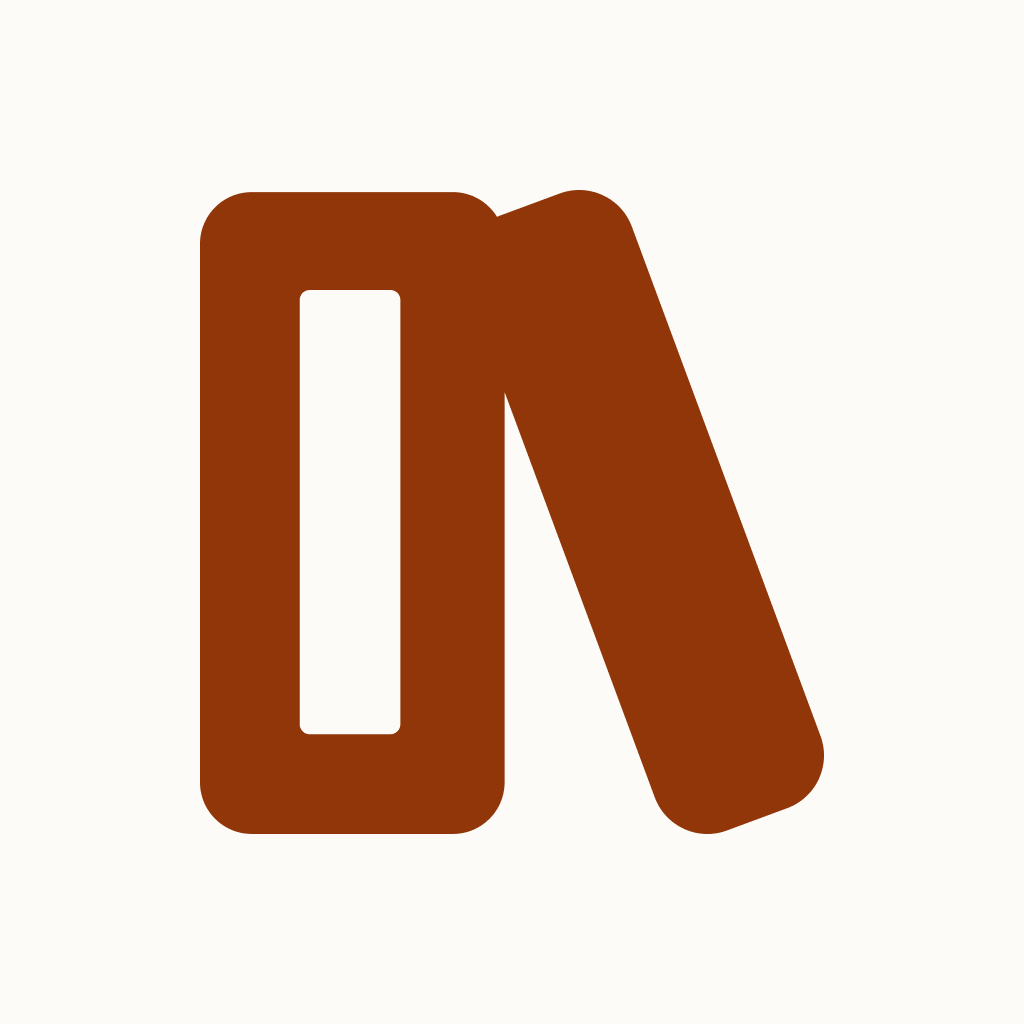
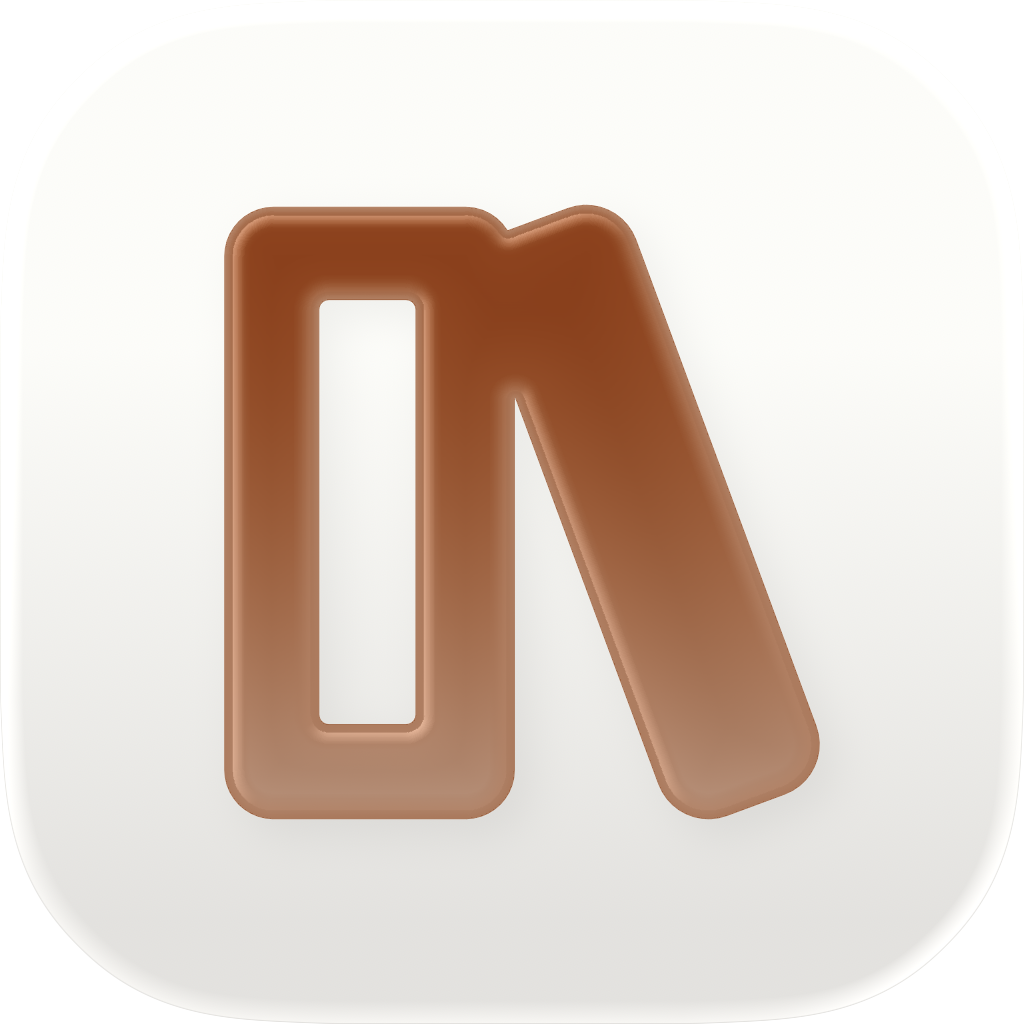
WIP

diff --git a/resources/js/components/AppLogo.vue b/resources/js/components/AppLogo.vue
@@ -21,7 +21,7 @@ defineProps({
         <div
             class="aspect-square items-center justify-center"
             :class="logoSize">
-            <AppLogoIcon class="rounded-lg fill-current text-primary border border-secondary size-full dark:text-black" />
+            <AppLogoIcon class="rounded-lg fill-current text-primary border border-secondary size-full dark:text-white" />
         </div>
         <div class="ml-2 grid flex-1 text-left text-sm text-primary">
             <span

diff --git a/resources/js/components/AppLogoIcon.vue b/resources/js/components/AppLogoIcon.vue
@@ -17,7 +17,6 @@ defineProps({
     <!--    >-->
     <div
         v-bind="$attrs"
-        :style="white ? '--color-primary: #fff; --color-secondary: #fff;' : ''"
         class="flex items-center justify-center overflow-hidden"
         v-html="Logo" />
 </template>

diff --git a/resources/views/app.blade.php b/resources/views/app.blade.php
@@ -24,8 +24,10 @@
 
     <link rel="icon" type="image/png" href="/favicon-96x96.png?v={{ $buildId }}" sizes="96x96" />
     <link rel="icon" type="image/svg+xml" href="/favicon.svg?v={{ $buildId }}" />
-    <link rel="shortcut icon" href="/favicon.ico?v={{ $buildId }}" />
     <link rel="mask-icon" href="/favicon-mask.svg?v={{ $buildId }}" color="{{ config('pwa.manifest.primary_color') }}">
+    <link rel="shortcut icon" href="{{ $appearance === 'dark' ? '/favicon_dark.ico?v='.$buildId : '/favicon.ico?v='.$buildId }}" />
+    <link rel="icon" href="/favicon.ico?v={{ $buildId }}" type="image/x-icon" media="(prefers-color-scheme: light)">
+    <link rel="icon" href="/favicon_dark.ico?v={{ $buildId }}" type="image/x-icon" media="(prefers-color-scheme: dark)">
 
     @if(!empty($meta['preload']))
         @foreach($meta['preload'] as $preload)

diff --git a/resources/views/partials/meta/icons.blade.php b/resources/views/partials/meta/icons.blade.php
@@ -1,5 +1,6 @@
 <link rel="icon" sizes="512x512" href="{{ url('/images/pwa/icons/512.png') }}">
-<link rel="apple-touch-icon" href="{{ url('/images/pwa/icons/512.png') }}">
+<link rel="apple-touch-icon" href="{{ url('/apple-touch-icon.png') }}" media="(prefers-color-scheme: light)">
+<link rel="apple-touch-icon" href="{{ url('apple-touch-icon-dark.png') }}" media="(prefers-color-scheme: dark)">
 
 <link rel="apple-touch-startup-image" href="{{ url('/images/pwa/splash/2048x2732.jpeg') }}" media="(device-width: 1024px) and (device-height: 1366px) and (-webkit-device-pixel-ratio: 2) and (orientation: portrait)">
 <link rel="apple-touch-startup-image" href="{{ url('/images/pwa/splash/2732x2048.jpeg') }}" media="(device-width: 1024px) and (device-height: 1366px) and (-webkit-device-pixel-ratio: 2) and (orientation: landscape)">

diff --git a/config/pwa.php b/config/pwa.php
@@ -14,7 +14,7 @@ return [
         'primary_color' => '#913608',
         'background_color' => '#fcfbf8',
         'dark_background_color' => '#0f0f0f',
-        'theme_color' => '#fcfbf8',
+        'theme_color' => '#913608',
         'orientation' => 'any',
         'status_bar' => '#fcfbf8',
         'appleMobileWebAppCapable' => 'yes',
